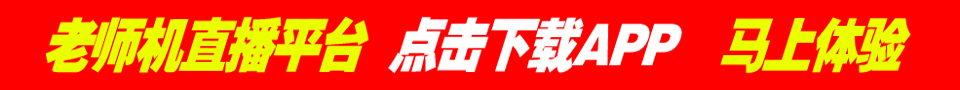
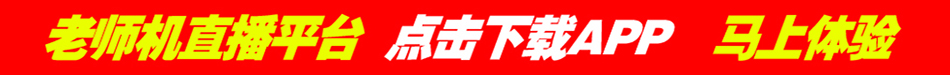
up

diff --git a/_layouts/default.html b/_layouts/default.html
@@ -65,6 +65,6 @@
 }
 </style>
 <div class="bottom_fixed">
-<a href="http://www.zy277.com/?adref=xxfldh_com" rel="nofollow" target="_blank"><img src="https://www.et180.com/images/dp7.gif"></a></div>
+<a href="http://www.zy277.com/?adref=xxfldh_com" rel="nofollow" target="_blank"><img src="https://www.et180.com/images/dp8.jgp"></a></div>
 	</body>
 </html>

diff --git a/_layouts/pages.html b/_layouts/pages.html
@@ -66,6 +66,6 @@
 }
 </style>
 <div class="bottom_fixed">
-<a href="http://www.zy277.com/?adref=xxfldh_com" rel="nofollow" target="_blank"><img src="https://www.et180.com/images/dp7.gif"></a></div>
+<a href="http://www.zy277.com/?adref=xxfldh_com" rel="nofollow" target="_blank"><img src="https://www.et180.com/images/dp8.jpg"></a></div>
 	</body>
 </html>
